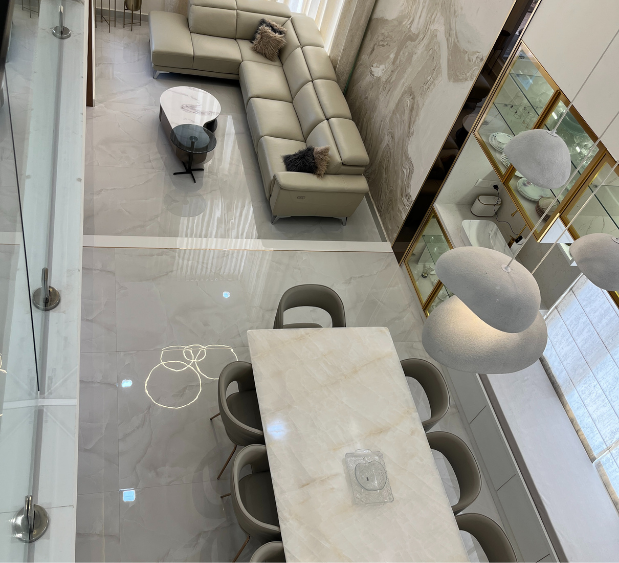
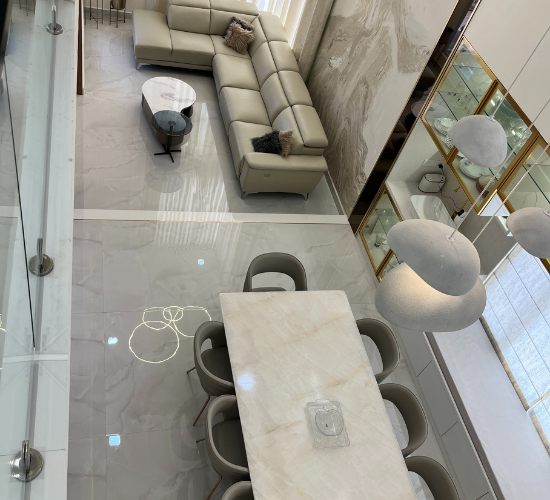
fadsv

diff --git a/index.html b/index.html
@@ -500,7 +500,7 @@ width:unset !important;
           <div class="offer_r">
             <div class="grid clearfix">
               <figure class="effect-jazz mb-0">
-                <a href="#"><img src="img/interiors/1.JPG" height="340" class="w-100 offer-img" alt="Interior Design"></a>
+                <a href="#"><img src="img/interiors/1.png"  class="w-100 offer-img" alt="Interior Design" /></a>
               </figure>
             </div>
           </div>
@@ -508,14 +508,14 @@ width:unset !important;
       </div>
 
       <!-- Second Row -->
-      <div class="row work_1 mt-5">
+      <div class="row work_1 mt-5 align-items-center">
         <!-- Left Image -->
         <div class="col-md-6">
           <div class="offer_r">
             <div class="grid clearfix">
               <figure class="effect-jazz mb-0">
-                <a href="javascript:void(0)"><img src="img/interiors/homeabout3.png" height="500" class="w-100 offer-imgg"
-                    alt="Architecture Design"></a>
+                <a href="javascript:void(0)"><img src="img/interiors/homeabout3.png"  class="w-100 offer-img"
+                    alt="Architecture Design" /></a>
               </figure>
             </div>
           </div>
@@ -619,9 +619,22 @@ width:unset !important;
     #offer figure {
       border-radius: 15% 15% 15% 15%;
       box-shadow: 0 4px 12px rgba(0, 0, 0, 0.3), 0 4px 12px rgba(0, 0, 0, 0.3), 0 4px 12px rgba(0, 0, 0, 0.3), 0 4px 12px rgba(0, 0, 0, 0.3);
+    
+    }
+    #offer img{
+      height:400px;
     }
 
+@media(max-width:992px){
+  #offer img{
+    width:unset !important;
+  }
+  #offer figure{
+    box-shadow:none !important;
+    border-radius: 10px;
 
+  }
+}
 
     .transparent-bg {
       background: rgba(255, 255, 255, 0.3);

diff --git a/css/global.css b/css/global.css
@@ -697,7 +697,7 @@ text-align:center;
 text-align:left;
  }
 .offer_r img{
-height:auto;
+/* height:auto; */
 }
 .about_pgoi{
 margin-top:8px;
